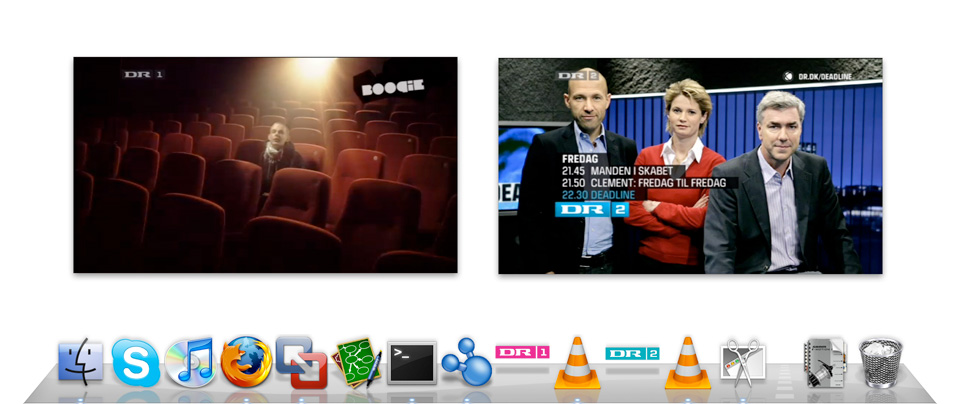
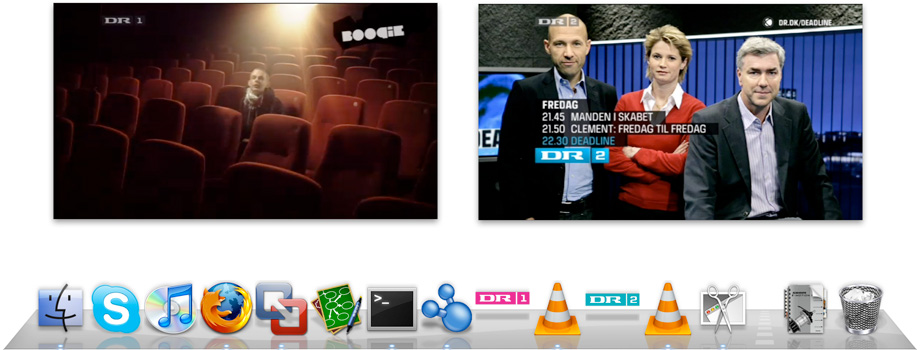
update layout

diff --git a/source/style.css b/source/style.css
@@ -5,7 +5,7 @@ body {
 
 #container {
   margin: 0px auto;
-  width: 750px;
+  width: 800px;
   border-width: thin; 
   border-style: solid;
   background: #ffffff;
@@ -27,11 +27,13 @@ a:hover { color: black; text-decoration: underline; }
 
 h1, h2, h3, h4 { margin-bottom: 1em; margin-top:2em;}
 p { margin-top: 0px; }
-img {
-  border-width: thin; 
-  border-style: solid;
+#screenshot {
+  margin-top: 30px;
+  margin-bottom: 80px;
+}
+#dmg {
   float: right;
-  margin-left: 10px;
+  margin-left: 30px;
 }
 hr { margin-top: 50px;}
 
